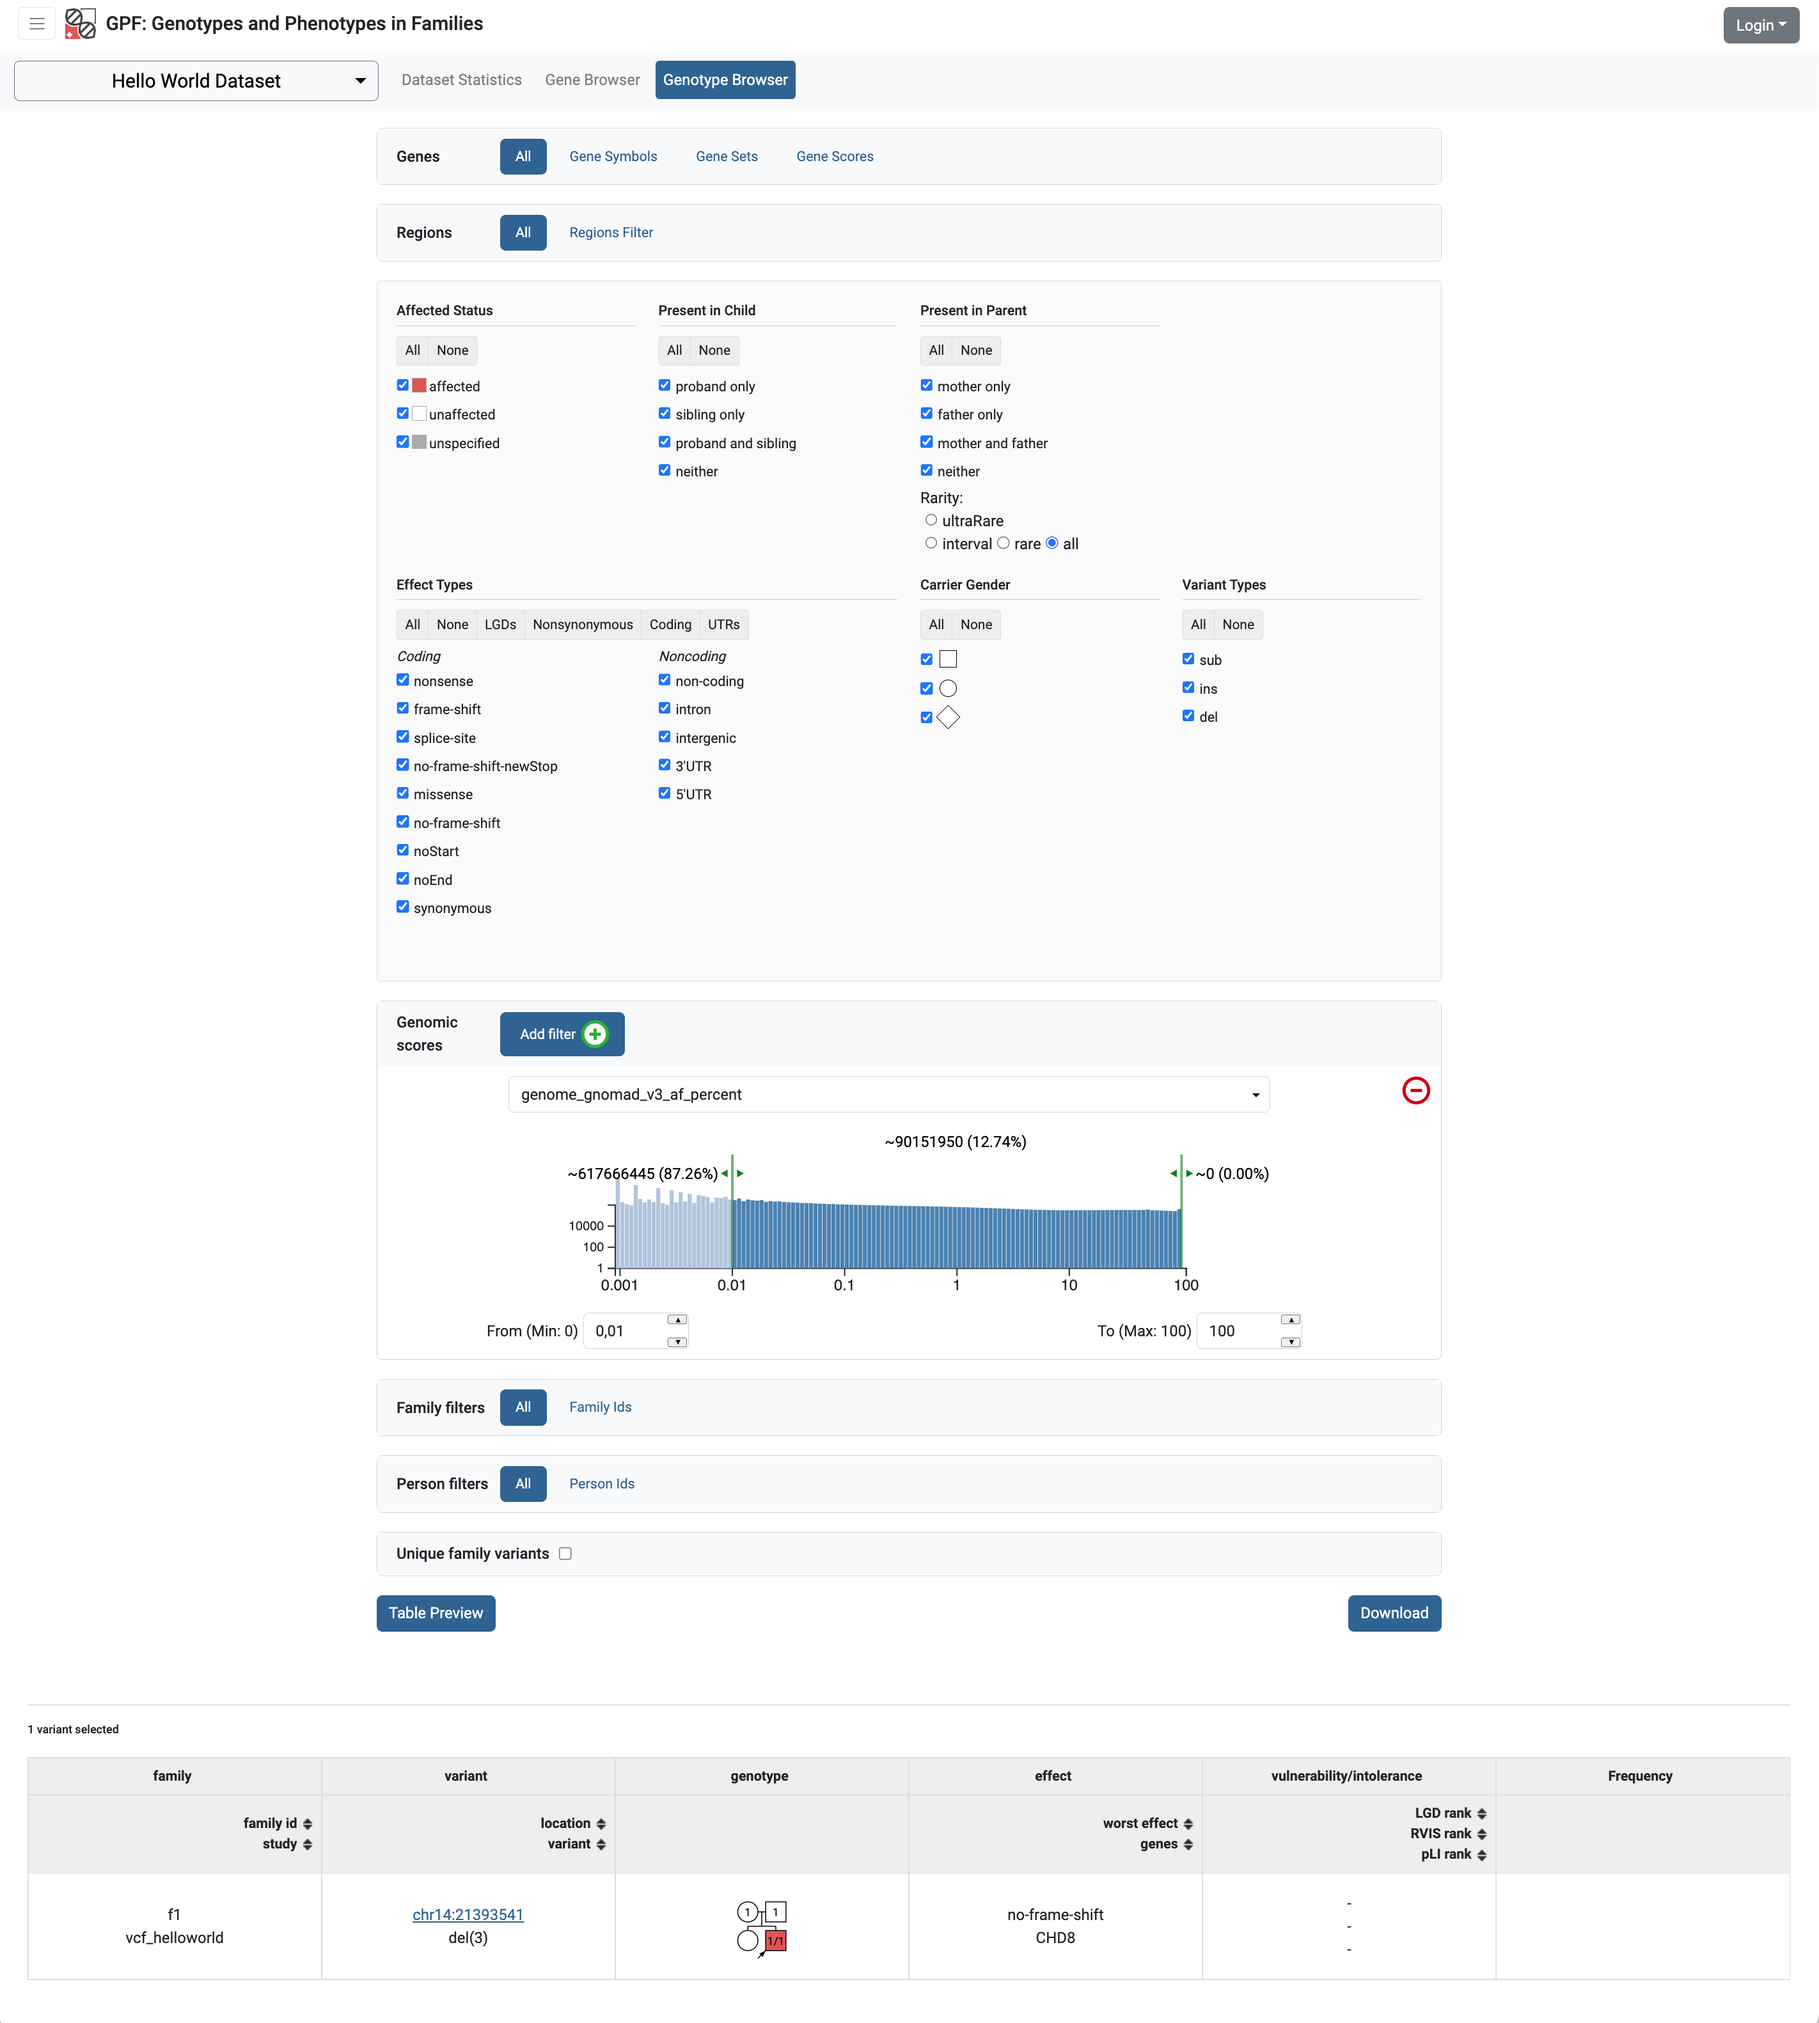
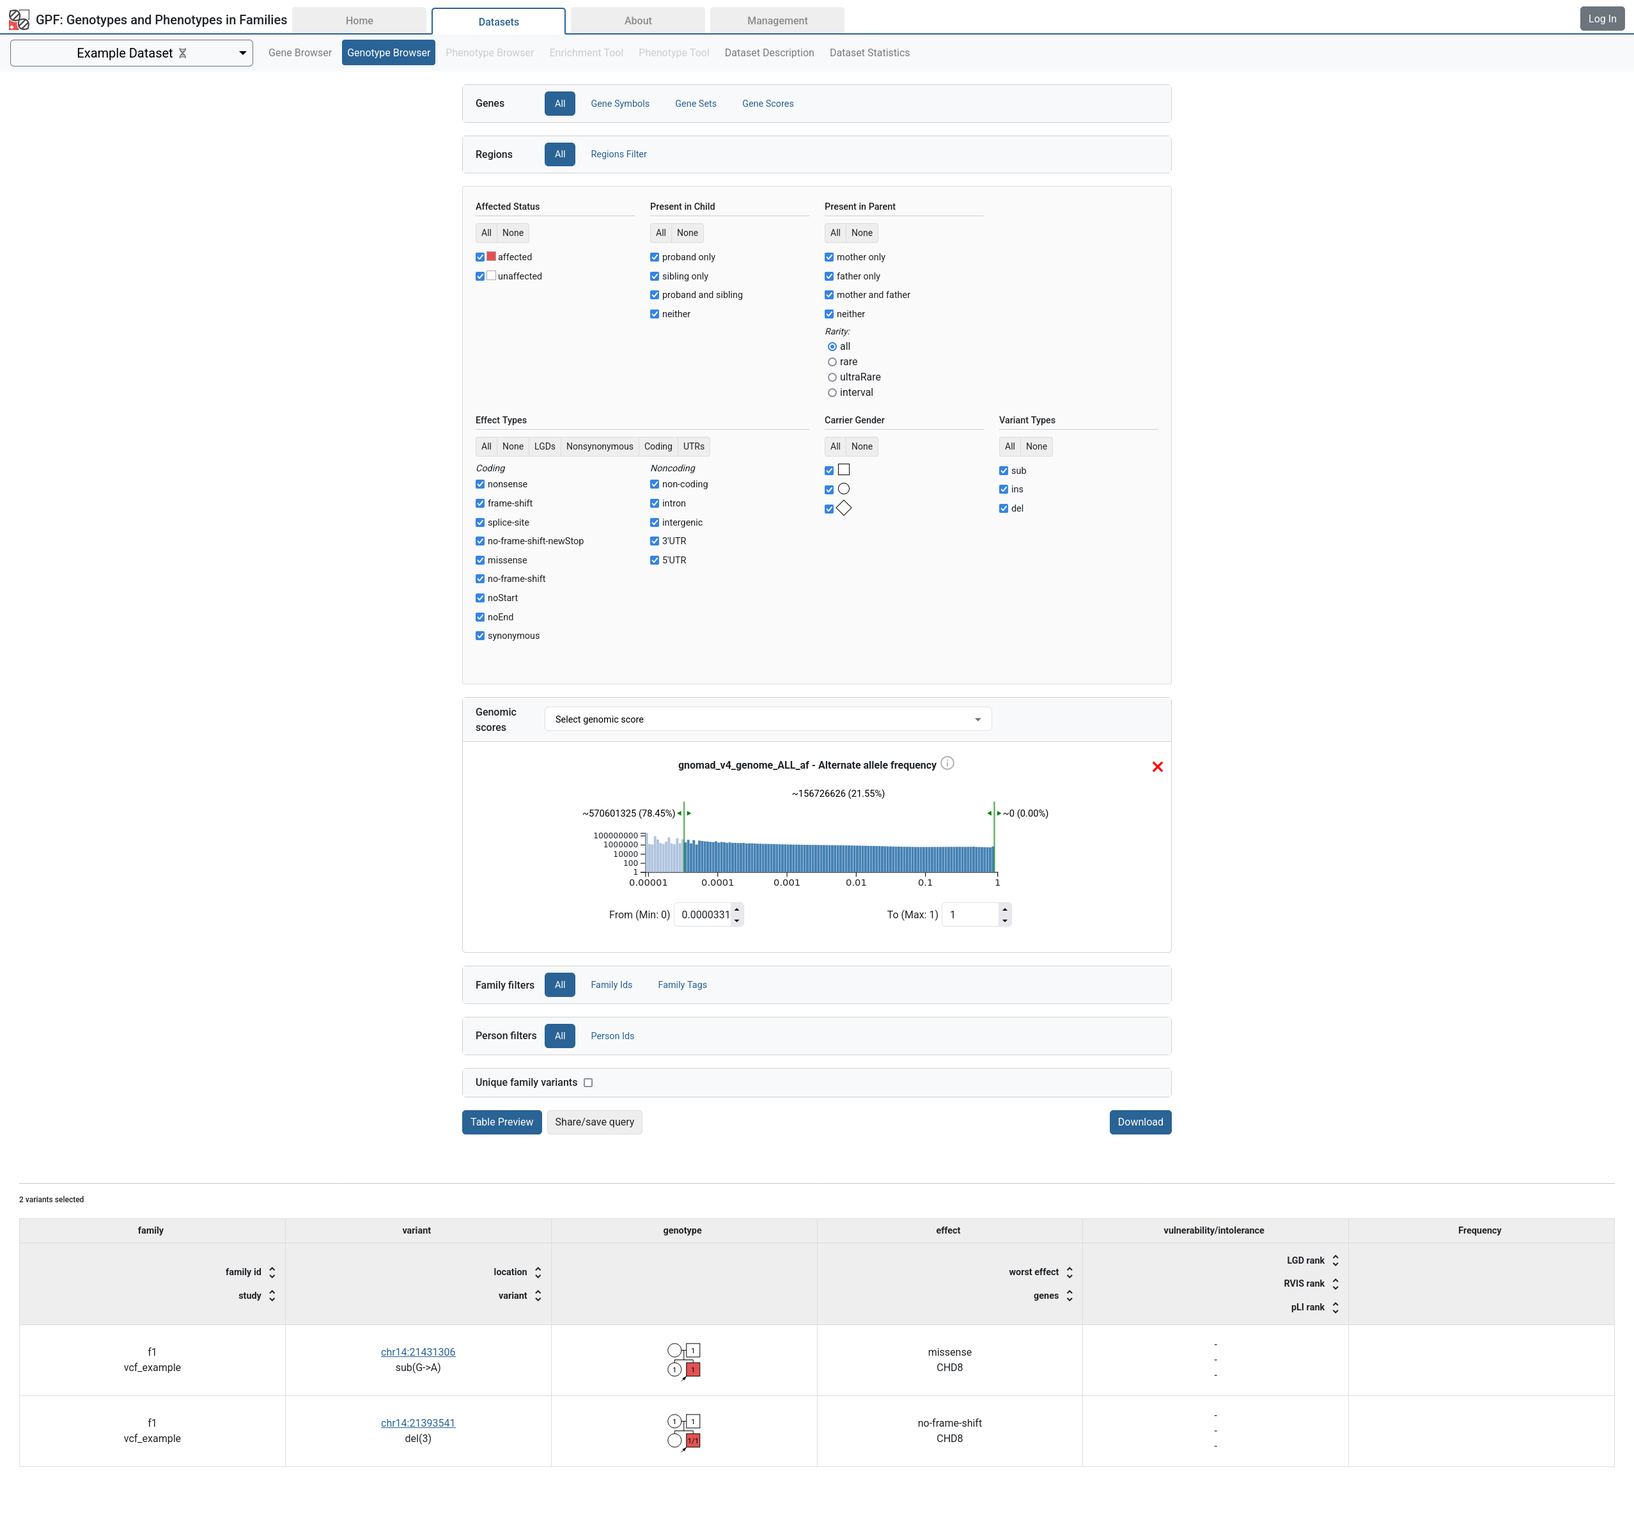
Update getting started

diff --git a/userdocs/administration/getting_started/getting_started_with_preview_columns.rst b/userdocs/administration/getting_started/getting_started_with_preview_columns.rst
@@ -13,7 +13,7 @@ Example: Redefine the `Frequency` column in the preview table of `Example Datase
 ++++++++++++++++++++++++++++++++++++++++++++++++++++++++++++++++++++++++++++++++++
 
 As an example, we are going to redefine the `Frequency` column for ``example_dataset``
-dataset to include attributes from annotation with GnomAD v3 genomic score.
+dataset to include attributes from annotation with GnomAD v4 genomic score.
 
 Edit the ``example_dataset.yaml`` dataset configuration in ``minimal_instance/datasets/example_dataset``:
 
@@ -24,38 +24,28 @@ Add the following section to the end:
     genotype_browser:
       columns:
         genotype:
-          genome_gnomad_v3_af_percent:
-            name: gnomAD v3 AF
-            source: genome_gnomad_v3_af_percent
+          gnomad_v4_genome_ALL_af:
+            name: gnomAD v4 AF
+            source: gnomad_v4_genome_ALL_af
             format: "%%.3f"
-          genome_gnomad_v3_ac:
-            name: gnomAD v3 AC
-            source: genome_gnomad_v3_ac
-            format: "%%d"
-          genome_gnomad_v3_an:
-            name: gnomAD v3 AN
-            source: genome_gnomad_v3_an
-            format: "%%d"
       column_groups:
         freq:
           name: "Frequency"
           columns: 
-            - genome_gnomad_v3_af_percent
-            - genome_gnomad_v3_ac
-            - genome_gnomad_v3_an    
+            - gnomad_v4_genome_ALL_af
 
 This overwrites the definition of the default preview column `Frequency` to
-include the gnomAD v3 frequencies. If we now browse the `Example Dataset`
+include the gnomAD v4 frequencies. If we now browse the `Example Dataset`
 and run variants preview in the genotype browser we will start seeing the 
 GnomAD attributes:
 
 .. image:: getting_started_files/helloworld-gnomad-frequency-preview-columns.png
 
 
-Example: Add GnomAD v3 columns to the variants download
-+++++++++++++++++++++++++++++++++++++++++++++++++++++++
+Example: Add GnomAD v4 column to the variants download
+++++++++++++++++++++++++++++++++++++++++++++++++++++++
 
-As an example let us add GnomAD v3 columns to the variants downloads.
+As an example let us add the GnomAD v4 column to the variants downloads.
 
 By default, each genotype study or dataset has a list of predefined columns used
 when downloading variants. The users can replace the default list of download
@@ -63,35 +53,23 @@ columns by defining the ``download_columns`` list or they can extend the predefi
 list of download columns by defining the ``download_columns_ext`` list of columns.
 
 In the example below we are going to use ``download_columns_ext`` to add
-GnomAD v3 columns to the properties of downloaded variants:
+the GnomAD v4 column to the properties of downloaded variants:
 
 .. code-block:: yaml
 
     genotype_browser:
       columns:
         genotype:
-          genome_gnomad_v3_af_percent:
-            name: gnomAD v3 AF
-            source: genome_gnomad_v3_af_percent
+          gnomad_v4_genome_ALL_af:
+            name: gnomAD v4 AF
+            source: gnomad_v4_genome_ALL_af
             format: "%%.3f"
-          genome_gnomad_v3_ac:
-            name: gnomAD v3 AC
-            source: genome_gnomad_v3_ac
-            format: "%%d"
-          genome_gnomad_v3_an:
-            name: gnomAD v3 AN
-            source: genome_gnomad_v3_an
-            format: "%%d"
       column_groups:
         freq:
           name: "Frequency"
           columns: 
-            - genome_gnomad_v3_af_percent
-            - genome_gnomad_v3_ac
-            - genome_gnomad_v3_an    
+            - gnomad_v4_genome_ALL_af
 
       download_columns_ext:
-        - genome_gnomad_v3_af_percent
-        - genome_gnomad_v3_ac
-        - genome_gnomad_v3_an    
+        - gnomad_v4_genome_ALL_af
 

diff --git a/userdocs/administration/getting_started/getting_started_with_annotation.rst b/userdocs/administration/getting_started/getting_started_with_annotation.rst
@@ -13,12 +13,12 @@ There is a `public Genomic Resources Repository (GRR)
 with a collection of public genomic resources available for use with
 GPF system.
 
-Example: Annotation with GnomAD 3.0
-+++++++++++++++++++++++++++++++++++
+Example: Annotation with GnomAD 4.1.0
++++++++++++++++++++++++++++++++++++++
 
 To annotate the genotype variants with `GnomAD` allele frequencies we should
 find the GnomAD genomic resource in our public GRR. We will choose to use
-``hg38/variant_frequencies/gnomAD_v3/genomes`` resource. If we navigate
+``hg38/variant_frequencies/gnomAD_4.1.0/genomes/ALL`` resource. If we navigate
 to the resource page we will see that this is an ``allele_score`` resource.
 So to use it in the annotation we should use the ``allele_score`` annotator.
 
@@ -27,7 +27,7 @@ following:
 
 .. code-block:: yaml
 
-    - allele_score: hg38/variant_frequencies/gnomAD_v3/genomes
+    - allele_score: hg38/variant_frequencies/gnomAD_4.1.0/genomes/ALL
 
 Store this annotation configuration in a file named ``minimal_instance/annotation.yaml``.
 
@@ -51,17 +51,15 @@ Now we can re-run the import for our examples:
     import_genotypes -f input_genotype_data/vcf_example.yaml
 
 Once the re-import finishes, the variants in our ``Example Dataset`` have
-additional attributes that come from the annotation with ``GnomAD v3.0``. By
-default annotation adds the following three attributes:
+additional attributes that come from the annotation with ``gnomAD v4.1.0``. By
+default, the annotation adds the following attribute:
 
-- ``genome_gnomad_v3_af_percent`` - allele frequencies as a percent;
-- ``genome_gnomad_v3_ac`` - allele count;
-- ``genome_gnomad_v3_an`` - number of sequenced alleles.
+- ``gnomad_v4_genome_ALL_af`` - allele frequencies as a percent;
 
 If we run the GPF development server and browse our ``Example Dataset``
 there is almost no difference. The only difference is that now in the
 genotype browser, the genomic scores section is not empty and we can query
-our variants using the ``genome_gnomad_v3_af_percent`` genomic score.
+our variants using the ``gnomad_v4_genome_ALL_af`` genomic score.
 
 .. image:: getting_started_files/helloworld-gnomad-annotation-with-genomic-scores-filter.png
 

diff --git a/userdocs/administration/getting_started/getting_started_with_gene_browser.rst b/userdocs/administration/getting_started/getting_started_with_gene_browser.rst
@@ -7,13 +7,13 @@ of the alleles in the imported data.
 
 .. image:: getting_started_files/helloworld-gene-browser-study-frequency.png
 
-After annotation of the ``example_dataset`` data with GnomAD v3 we can use the GnomAD
+After annotation of the ``example_dataset`` data with GnomAD v4 we can use the GnomAD
 allele frequency in the Gene Browser.
 
 Example: configure the gene browser to use gnomAD frequency as the variant frequency
 ++++++++++++++++++++++++++++++++++++++++++++++++++++++++++++++++++++++++++++++++++++
 
-To configure the `Example Dataset` to use GnomAD v3 allele frequency 
+To configure the `Example Dataset` to use GnomAD v4 allele frequency 
 we need to add a new section
 ``gene_browser`` in the configuration file of the datasets 
 ``datasets/example_dataset/example_dataset.yaml`` as follows:
@@ -27,7 +27,7 @@ we need to add a new section
 
     gene_browser:
       enabled: true
-      frequency_column: genome_gnomad_v3_af_percent
+      frequency_column: gnomad_v4_genome_ALL_af
 
 
 If we restart the GPF development server and navigate to ``Example Dataset``
